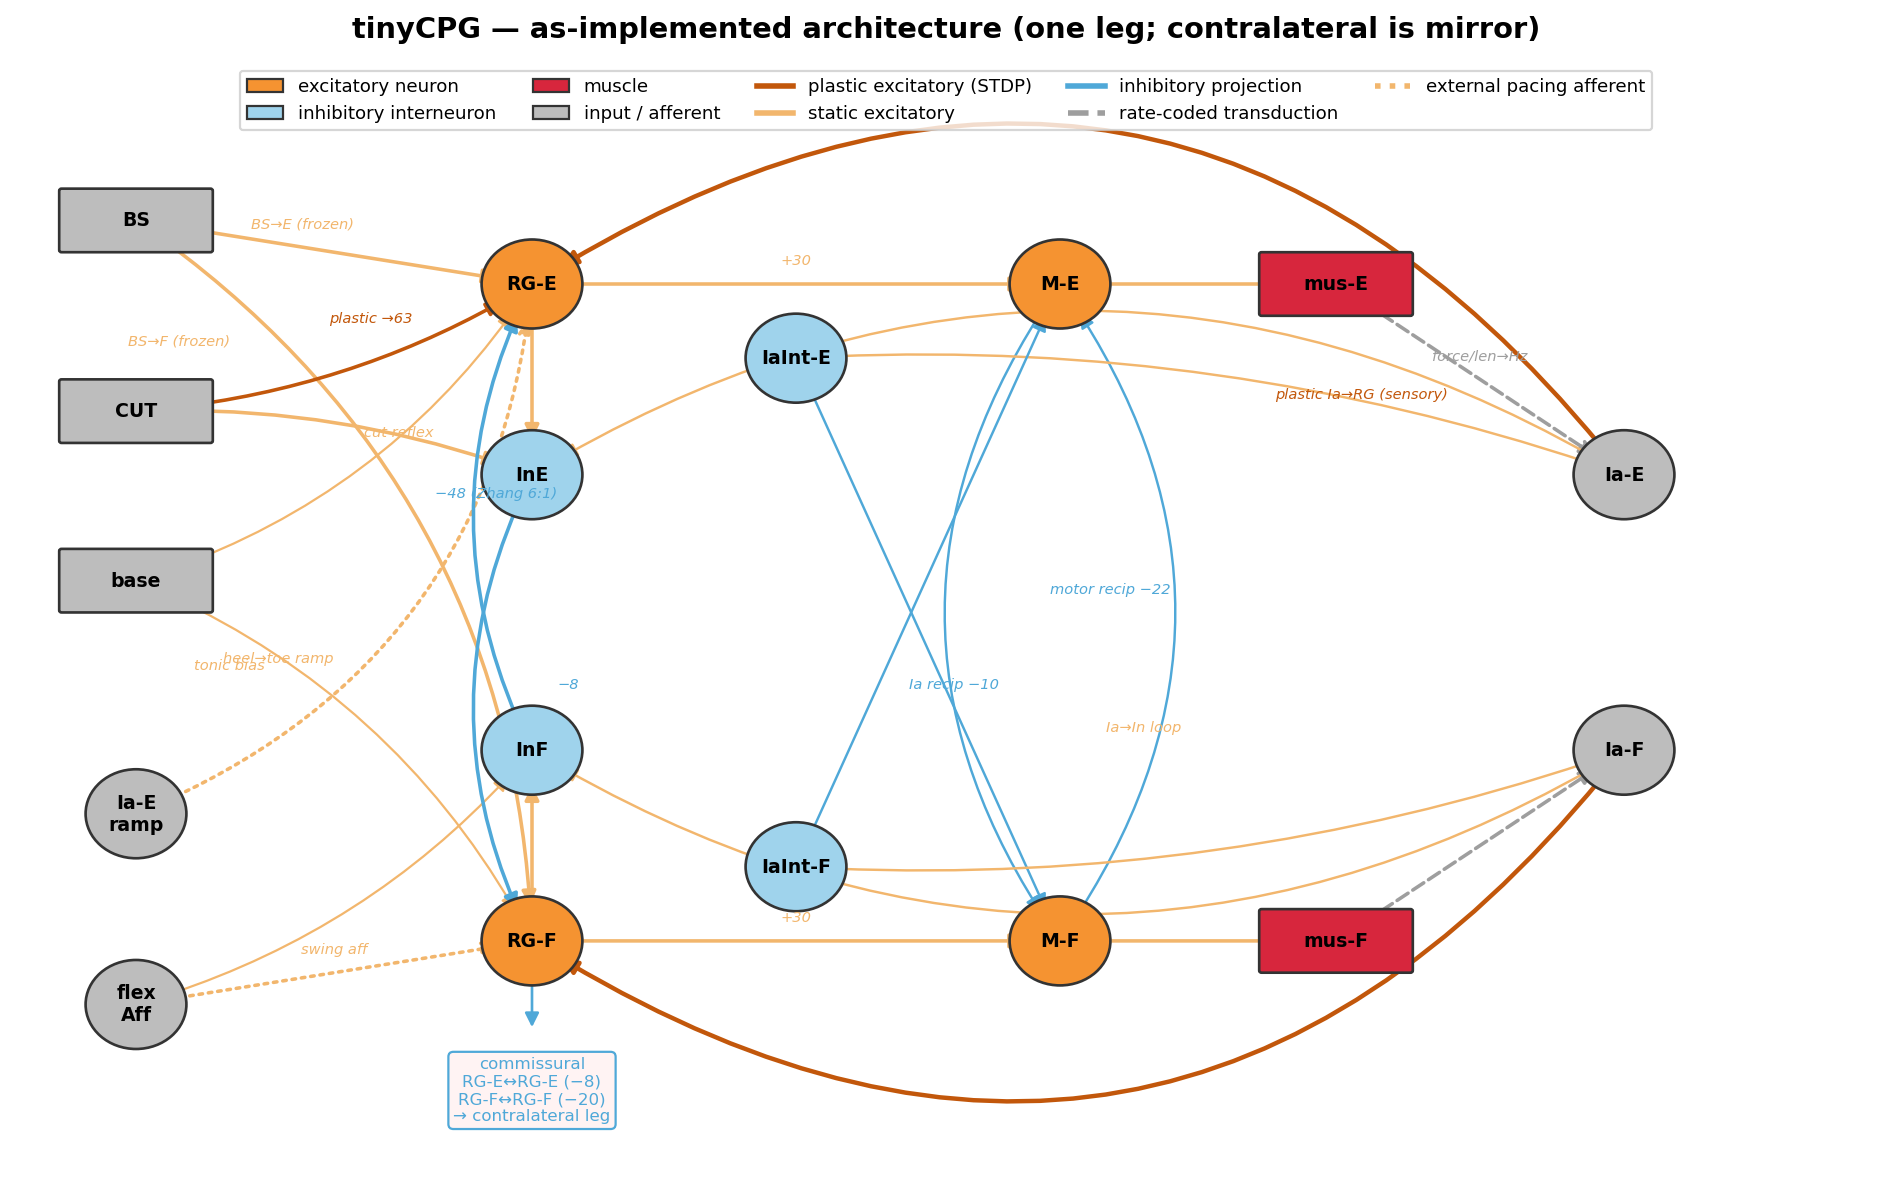
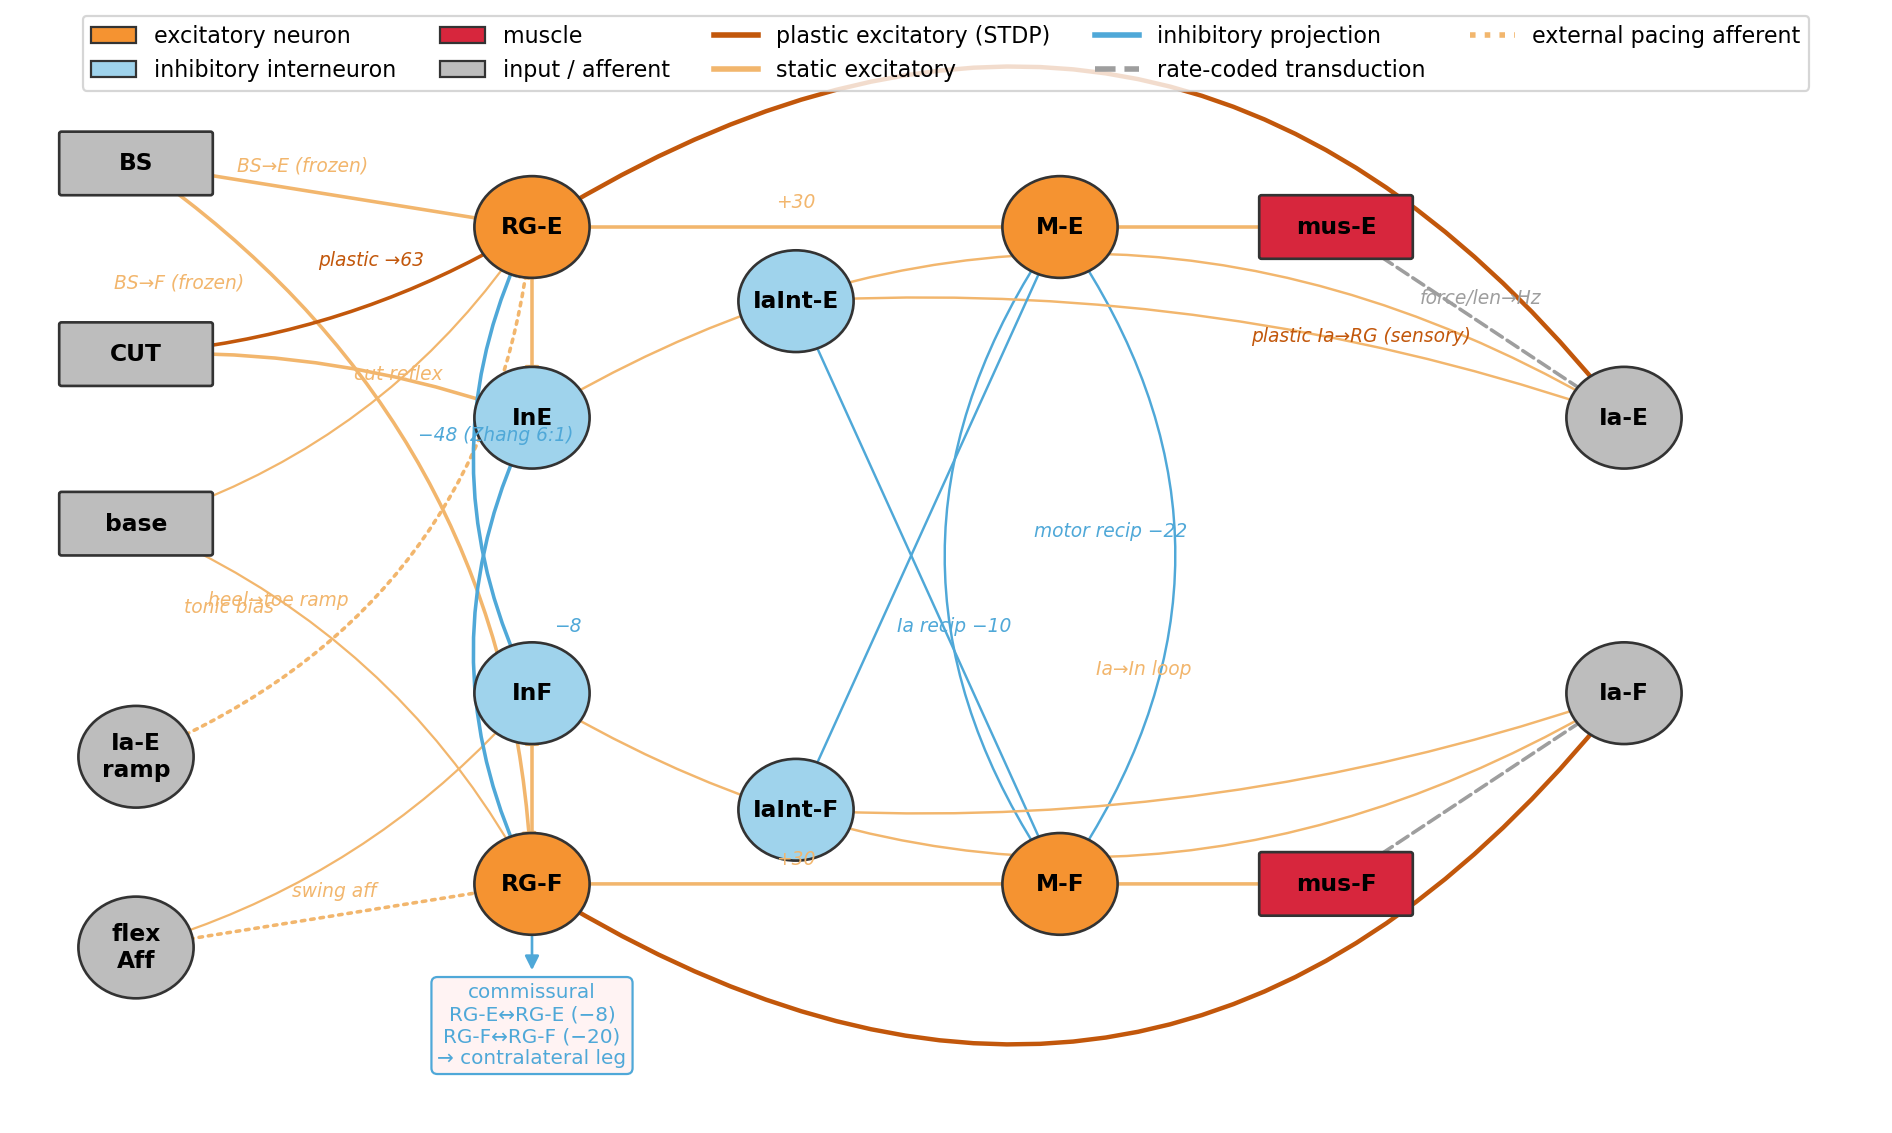
Fig 2 & 3: enlarge fonts, remove in-figure title (arch), for readability
- fig_architecture_implemented (Fig 2): node font 8.5->10.5, edge labels 6.6->8.4,
  legend 8.2->10, nodes r 0.42->0.48; removed the "tinyCPG — as-implemented..."
  suptitle (moves to LaTeX caption per review).
- fig_connectivity (Fig 3): rcParams font 9->12 / titles 11->13, figsize 14x11->15x13,
  projection y-labels 8->10, panel-(a) header 11->13.

Addresses PDF-review items 1, 2, and 7 (title-in-caption) for these two figures.

diff --git a/cpg_architecture_diagram.py b/cpg_architecture_diagram.py
@@ -23,7 +23,7 @@ EXC_S="#F2B66D"   # static excitatory projection (light orange)
 INH="#4FA8D8"     # inhibitory neuron + projection (light blue)
 RATE="#9e9e9e"    # rate-coded transduction / input grey
 
-def node(ax, xy, label, kind="rg", r=0.42):
+def node(ax, xy, label, kind="rg", r=0.48):
     x,y=xy
     fc={"rg":"#F59331",     # excitatory neuron (orange)
         "m":"#F59331",      # excitatory motoneuron (orange)
@@ -38,7 +38,7 @@ def node(ax, xy, label, kind="rg", r=0.42):
         ax.add_patch(b)
     else:
         ax.add_patch(Circle((x,y),r,fc=fc,ec="#333",lw=1.2,zorder=3))
-    ax.text(x,y,label,ha="center",va="center",fontsize=8.5,fontweight="bold",zorder=4)
+    ax.text(x,y,label,ha="center",va="center",fontsize=10.5,fontweight="bold",zorder=4)
 
 def edge(ax, a, b, color, style="-", rad=0.0, lw=1.6, label=None, lx=0.5):
     ar=FancyArrowPatch(a,b,connectionstyle=f"arc3,rad={rad}",arrowstyle="-|>",
@@ -47,7 +47,7 @@ def edge(ax, a, b, color, style="-", rad=0.0, lw=1.6, label=None, lx=0.5):
     ax.add_patch(ar)
     if label:
         mx=a[0]+(b[0]-a[0])*lx+rad*1.2; my=a[1]+(b[1]-a[1])*lx+0.18
-        ax.text(mx,my,label,fontsize=6.6,color=color,ha="center",style="italic",zorder=5)
+        ax.text(mx,my,label,fontsize=8.4,color=color,ha="center",style="italic",zorder=5)
 
 fig,ax=plt.subplots(figsize=(15,8.6))
 ax.set_xlim(0,15.5); ax.set_ylim(0,10); ax.axis("off")
@@ -108,7 +108,7 @@ edge(ax,P["IaE"],P["RGE"],EXC_P,rad=0.45,lw=2.0,label="plastic Ia→RG (sensory)
 edge(ax,P["IaF"],P["RGF"],EXC_P,rad=-0.45,lw=2.0)
 # commissural stub
 ax.annotate("commissural\nRG-E↔RG-E (−8)\nRG-F↔RG-F (−20)\n→ contralateral leg",
-            (4.3,0.5),fontsize=7.5,color=INH,ha="center",
+            (4.3,0.5),fontsize=9,color=INH,ha="center",
             bbox=dict(boxstyle="round",fc="#fff3f3",ec=INH,lw=1))
 edge(ax,P["RGF"],(4.3,1.05),INH,rad=0.0,lw=1.2)
 
@@ -124,8 +124,6 @@ leg=[Patch(fc="#F59331",ec="#333",label="excitatory neuron"),
      Line2D([0],[0],color=INH,lw=2.5,label="inhibitory projection"),
      Line2D([0],[0],color=RATE,lw=2.5,ls="--",label="rate-coded transduction"),
      Line2D([0],[0],color=EXC_S,lw=2.5,ls=":",label="external pacing afferent")]
-ax.legend(handles=leg,loc="upper center",ncol=5,fontsize=8.2,frameon=True,bbox_to_anchor=(0.5,1.05))
-ax.set_title("tinyCPG — as-implemented architecture (one leg; contralateral is mirror)",
-             fontsize=13,fontweight="bold",y=1.06)
+ax.legend(handles=leg,loc="upper center",ncol=5,fontsize=10,frameon=True,bbox_to_anchor=(0.5,1.05))
 fig.savefig("plots/paper/fig_architecture_implemented.png",dpi=160,bbox_inches="tight")
 print("saved plots/paper/fig_architecture_implemented.png")

diff --git a/cpg_connectivity_figure.py b/cpg_connectivity_figure.py
@@ -47,8 +47,8 @@ def main():
         return ("plastic" in nm) or nm.startswith("BS->") or nm in ("Ia-E->RG-E", "Ia-F->RG-F")
     plastic = [r for r in rows if _is_plastic(r["name"])]
 
-    plt.rcParams.update({"font.size": 9, "axes.titlesize": 11, "axes.labelsize": 10})
-    fig = plt.figure(figsize=(14, 11))
+    plt.rcParams.update({"font.size": 12, "axes.titlesize": 13, "axes.labelsize": 12})
+    fig = plt.figure(figsize=(15, 13))
     gs = fig.add_gridspec(3, 1, height_ratios=[0.9, 1.25, 1.25], hspace=0.45)
 
     # (a) weight histograms for plastic projections
@@ -56,13 +56,13 @@ def main():
     for i, r in enumerate(plastic):
         ax = fig.add_subplot(ga[0, i])
         ax.hist(r["w"], bins=40, color="#4477aa", alpha=0.85)
-        ax.set_title(f"{r['name']}\n(n={r['n']}, μ={r['wm']:.1f}, σ={r['ws']:.1f} pA)", fontsize=9)
+        ax.set_title(f"{r['name']}\n(n={r['n']}, μ={r['wm']:.1f}, σ={r['ws']:.1f} pA)", fontsize=11)
         ax.set_xlabel("weight (pA)");
         if i == 0:
             ax.set_ylabel("count")
         ax.grid(alpha=0.2)
     fig.text(0.5, 0.985, "(a) Plastic / learned-projection weight distributions (STDP + lognormal init)",
-             ha="center", fontsize=11, weight="bold")
+             ha="center", fontsize=13, weight="bold")
 
     # (b) weight per projection — signed bar with the per-connection spread (s.d.)
     ax = fig.add_subplot(gs[1])
@@ -72,7 +72,7 @@ def main():
     y = np.arange(len(sr))
     ax.barh(y, wm, xerr=ws, color=colors, alpha=0.85,
             error_kw=dict(ecolor="#555", elinewidth=0.8, capsize=2))
-    ax.set_yticks(y); ax.set_yticklabels(names, fontsize=8)
+    ax.set_yticks(y); ax.set_yticklabels(names, fontsize=10)
     ax.axvline(0, color="black", lw=0.6)
     ax.set_xlabel("synaptic weight (pA): mean ± per-connection s.d.  —  green = excitatory, red = inhibitory")
     ax.set_title("(b) Weight by projection — all projections heterogeneous (lognormal CV≈0.5); "
@@ -85,7 +85,7 @@ def main():
     nm = [r["name"] for r in rows]
     y = np.arange(len(rows))
     ax.errorbar(dm, y, xerr=ds, fmt="o", color="#9933aa", capsize=3, markersize=6)
-    ax.set_yticks(y); ax.set_yticklabels(nm, fontsize=8)
+    ax.set_yticks(y); ax.set_yticklabels(nm, fontsize=10)
     ax.set_xlabel("conduction + synaptic delay (ms; mean ± across-connection s.d.)")
     ax.set_title("(c) Delay by projection (length_velocity rat preset + 0.2 ms jitter)")
     ax.grid(alpha=0.2, axis="x")
